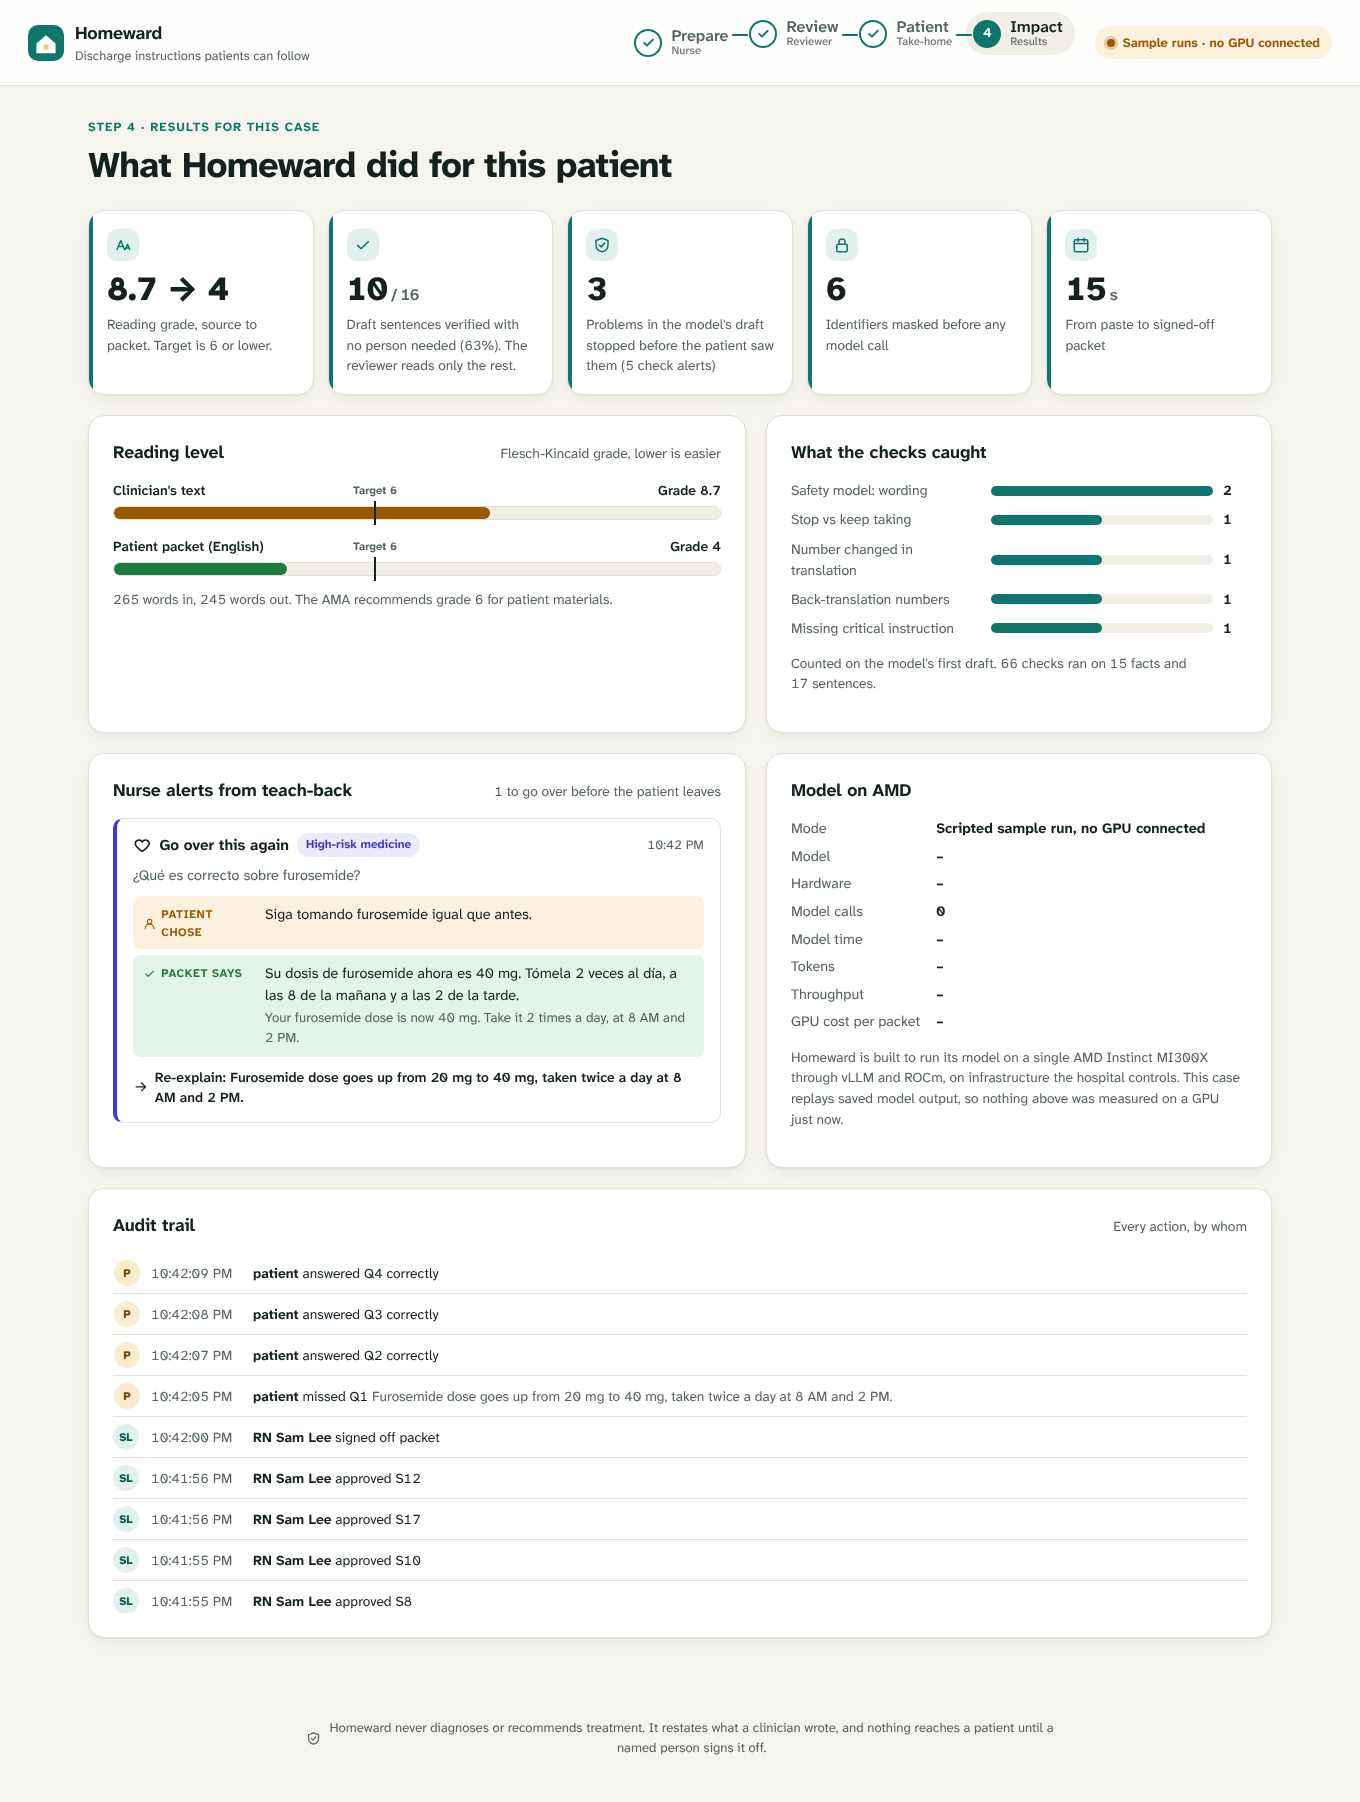
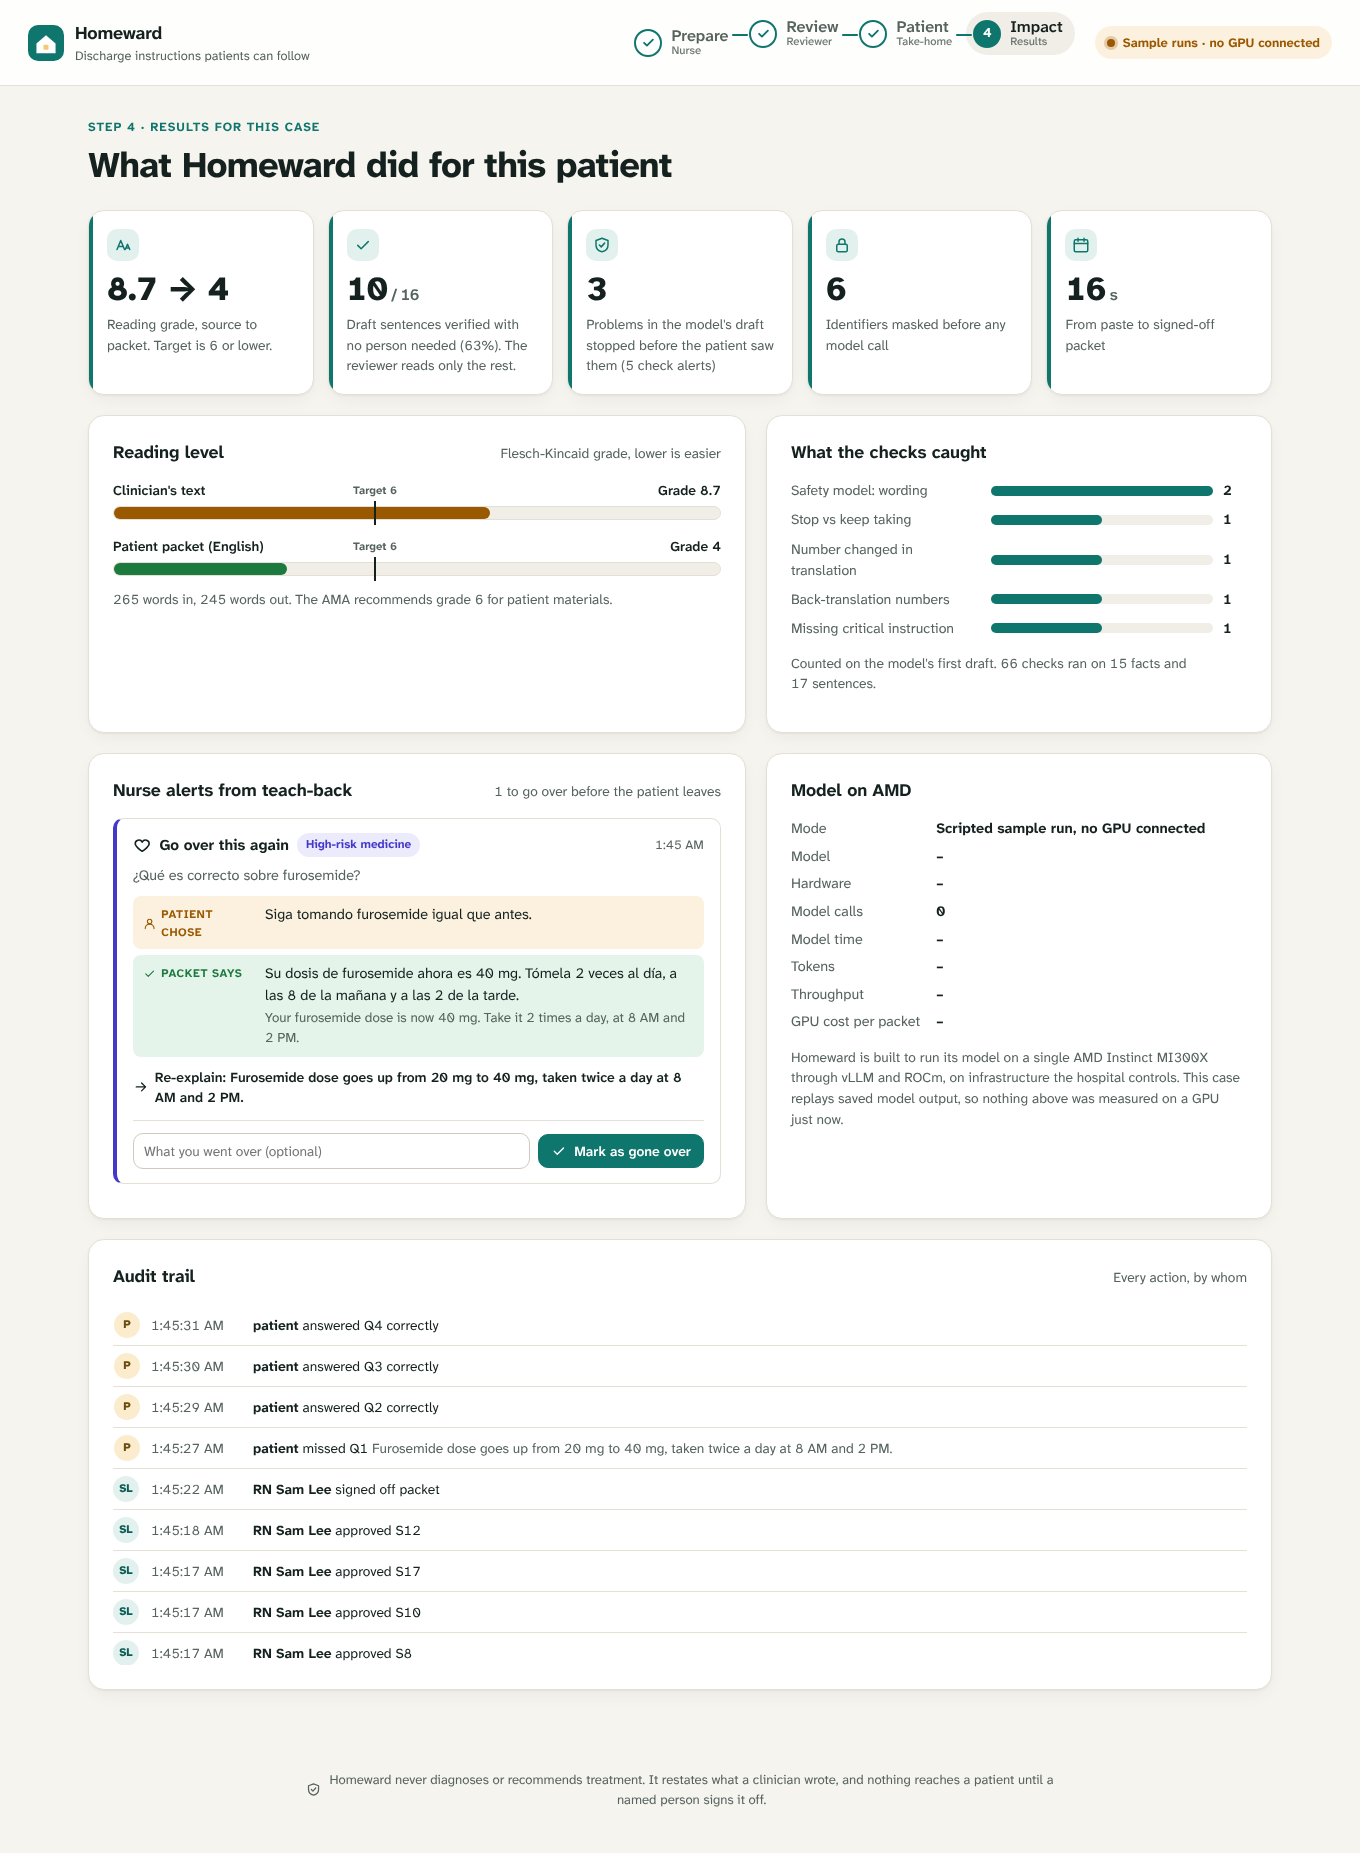
Let nurses mark teach-back alerts as gone over
Each alert on the results screen gets a "Mark as gone over" button with
an optional note. Once marked, the card turns green and folds down to who
went over it, when, and their note; the header count shows what is left.

The button appears only when the server gives alerts an id, so the page
works unchanged against a server without the acknowledge endpoint. If no
reviewer name is set yet, the form asks for one.

The e2e marks the first alert when the form is present.

Claude-Session: https://claude.ai/code/session_01LBn4XGQcqen2kKy8cW6LeE

diff --git a/homeward/static/app.js b/homeward/static/app.js
@@ -64,7 +64,7 @@ const SPEECH = { en: "en-US", es: "es-ES", it: "it-IT", vi: "vi-VN", zh: "zh-CN"
 
 // Opened from the patient's own link (/p/<token>): show only the signed packet and its quiz.
 const PATIENT_TOKEN = (location.pathname.match(/^\/p\/([\w-]+)\/?$/) || [])[1];
-const state = { meta: null, caseId: null, c: null, sample: null, packet: null, pLang: "tl", poll: null, started: 0, focus: 0, quiz: { i: 0, answers: {} } };
+const state = { meta: null, caseId: null, c: null, sample: null, packet: null, pLang: "tl", poll: null, started: 0, focus: 0, quiz: { i: 0, answers: {} }, ackNotes: {} };
 
 async function api(path, opts = {}) {
   const res = await fetch(path, { headers: opts.body && !(opts.body instanceof FormData) ? { "Content-Type": "application/json" } : {}, ...opts });
@@ -226,7 +226,7 @@ async function start() {
       const sampleId = state.sample && state.sample.source === source ? state.sample.id : null;
       r = await post("/api/cases", { source, language, patient_name: $("#pname").value, sample_id: sampleId });
     }
-    state.caseId = r.id; state.packet = null; state.started = Date.now(); state.quiz = { i: 0, answers: {} };
+    state.caseId = r.id; state.packet = null; state.started = Date.now(); state.quiz = { i: 0, answers: {} }; state.ackNotes = {};
     clearInterval(state.poll);
     state.poll = setInterval(refresh, 600);
     refresh();
@@ -722,27 +722,55 @@ function renderImpact() {
 }
 
 // A wrong teach-back answer becomes a task the nurse can act on: what was asked, what the patient chose,
-// what the signed packet says, and how serious the topic is.
+// what the signed packet says, and how serious the topic is. Once gone over, the nurse marks it with their name.
 function renderAlerts(c) {
   const facts = Object.fromEntries(c.facts.map((f) => [f.id, f]));
   const sents = Object.fromEntries(c.sentences.map((s) => [s.id, s]));
   const quiz = Object.fromEntries((c.quiz || []).map((q) => [q.id, q]));
   const tl = c.language !== "en";
-  $("#alerts-sum").textContent = c.alerts.length ? `${c.alerts.length} to go over before the patient leaves` : "";
+  const at = (t) => new Date(t * 1000).toLocaleTimeString([], { timeStyle: "short" });
+  const named = $("#reviewer").value.trim();
+  const open = c.alerts.filter((a) => !a.acknowledged).length;
+  $("#alerts-sum").textContent = open ? `${open} to go over before the patient leaves` : c.alerts.length ? "All gone over" : "";
   $("#alerts").innerHTML = c.alerts.length ? c.alerts.map((a) => {
     const f = facts[a.fact_id] || {}, q = quiz[a.question], s = q && sents[q.sentence_id];
     const chose = q && q.answer && q.options[q.answer.choice];
     const sev = f.kind === "warning_sign" ? ["warning", "red", "Warning sign"] : f.risk === "high" ? ["high", "high", "High-risk medicine"] : ["", "amber", "Instruction"];
-    return `<div class="alert-item sev-${sev[0] || "normal"}">
-      <div class="al-head">${icon("heart")}<b>Go over this again</b><span class="pill ${sev[1]}">${sev[2]}</span><time>${new Date(a.at * 1000).toLocaleTimeString([], { timeStyle: "short" })}</time></div>
+    const ack = a.acknowledged;
+    // Alerts carry an id only on servers that can record the follow-up.
+    const foot = !a.id ? "" : ack
+      ? `<p class="al-ack done">${icon("check")}<span><b>${esc(ack.by)}</b> went over this at ${at(ack.at)}.${ack.note ? ` <span class="fine">${esc(ack.note)}</span>` : ""}</span></p>`
+      : `<form class="al-ack" data-id="${esc(a.id)}">
+          ${named ? "" : `<input class="ack-who" maxlength="100" placeholder="Your name, e.g. RN Sam Lee" aria-label="Your name" autocomplete="name">`}
+          <input class="ack-note" maxlength="1000" placeholder="What you went over (optional)" aria-label="What you went over (optional)" value="${esc(state.ackNotes[a.id] || "")}">
+          <button class="primary small">${icon("check")}Mark as gone over</button>
+        </form>`;
+    return `<div class="alert-item sev-${sev[0] || "normal"}${ack ? " acked" : ""}${state.justDone === a.id ? " just-done" : ""}">
+      <div class="al-head">${icon(ack ? "check" : "heart")}<b>${ack ? "Gone over" : "Go over this again"}</b><span class="pill ${sev[1]}">${sev[2]}</span><time>${at(a.at)}</time></div>
       ${q ? `<p class="al-q">${esc(q.question)}</p>` : ""}
       <div class="al-rows">
         ${chose ? `<div class="al-row chose"><span>${icon("user")}Patient chose</span><p>${esc(chose.text)}</p></div>` : ""}
         ${s ? `<div class="al-row says"><span>${icon("check")}Packet says</span><p>${esc(tl ? s.text_tl : s.text_en)}${tl ? `<span class="en">${esc(s.text_en)}</span>` : ""}</p></div>` : ""}
       </div>
       <p class="al-do">${icon("arrow")}${esc(a.message)}</p>
+      ${foot}
     </div>`;
   }).join("") : `<div class="calm">${icon("check")}<span>No alerts. If the patient gets a teach-back question wrong, it shows up here with their answer, so the nurse can go over it before they leave.</span></div>`;
+  $$("#alerts form.al-ack").forEach((form) => {
+    const id = form.dataset.id, note = $(".ack-note", form), who = $(".ack-who", form), btn = $("button", form);
+    note.oninput = () => { state.ackNotes[id] = note.value; };
+    form.onsubmit = async (e) => {
+      e.preventDefault();
+      if (who) {
+        if (!who.value.trim()) { who.focus(); return toast("Enter your name first.", true); }
+        $("#reviewer").value = who.value.trim();
+        $("#reviewer").dispatchEvent(new Event("change"));
+      }
+      btn.disabled = true;
+      await act(() => post(`/api/cases/${c.id}/alerts/${id}/acknowledge`, { reviewer: reviewer(), note: note.value.trim() }), "Marked as gone over", id);
+      btn.disabled = false;
+    };
+  });
 }
 
 async function patientInit() {

diff --git a/homeward/static/styles.css b/homeward/static/styles.css
@@ -562,6 +562,16 @@ mark.diff { background: var(--solid-red); color: var(--on-solid); border-radius:
 .al-row.chose { background: var(--amber-soft); } .al-row.chose > span { color: var(--amber); }
 .al-row.says { background: var(--green-soft); } .al-row.says > span { color: var(--green); }
 .al-do { margin: 10px 0 0; font-size: .86rem; font-weight: 600; display: flex; gap: 6px; align-items: center; color: var(--ink); }
+.al-ack { display: flex; flex-wrap: wrap; gap: 8px; align-items: center; margin: 12px 0 0; padding-top: 12px; border-top: 1px solid var(--line); }
+.al-ack input { flex: 1 1 200px; margin: 0; padding: 7px 10px; font-size: .86rem; }
+.al-ack button { flex: none; }
+.al-ack.done { gap: 8px; align-items: flex-start; font-size: .86rem; color: var(--ink); }
+.al-ack.done > .i { color: var(--green); flex: none; margin-top: 2px; }
+.alert-item.acked { border-left-color: var(--green); background: var(--sunk); }
+.alert-item.acked .al-head > .i { color: var(--green); }
+.alert-item.acked .al-rows, .alert-item.acked .al-do { display: none; }
+.alert-item.just-done { animation: flash-done 1.2s var(--ease-out); }
+.alert-item.just-done .al-head > .i { animation: pop var(--t-3) var(--ease-pop); }
 .calm { display: flex; gap: 12px; align-items: center; color: var(--muted); font-size: .9rem; }
 .calm .i { width: 36px; height: 36px; padding: 8px; border-radius: 50%; background: var(--green-soft); color: var(--green); }
 .audit { max-height: 360px; overflow: auto; font-size: .86rem; }

diff --git a/docs/design.md b/docs/design.md
@@ -60,7 +60,7 @@ Where it is used:
 - **Running the pipeline.** Each step fills in, and the trail between steps grows. The current step pulses.
 - **Reviewing.** Cards come in one after another when the view opens, but not on every re-render. An approved card flashes green and its queue check pops. The sign-off button pulses twice when it becomes available, and a seal draws itself after sign-off.
 - **Patient packet.** The porch light comes on when a signed packet arrives. The quiz is a path of stepping stones that ends at the house, which lights up on the last answer. While a section is read aloud, its button shows a level meter and works as a stop button.
-- **Results.** The numbers count up and the bars grow.
+- **Results.** The numbers count up and the bars grow. When a nurse marks a teach-back alert as gone over, it flashes green and folds down to who went over it, when, and their note.
 
 With `prefers-reduced-motion`, every animation and transition is off, and each screen shows its final state.
 
